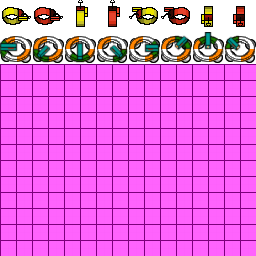
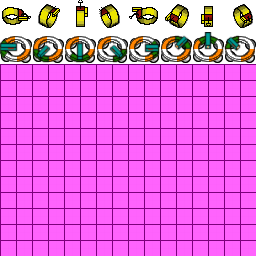
enemy.png auf Richtungen angepasst + Roter Ring wird jetzt durch dynamisches Einfärben erzeugt

diff --git a/src/de/_13ducks/spacebatz/client/graphics/Engine.java b/src/de/_13ducks/spacebatz/client/graphics/Engine.java
@@ -418,6 +418,9 @@ public class Engine {
                 if (enemy.getEnemytypeid() == 2) {
                     tiley = 2;
                 }
+		if (enemy.getEnemytypeid() == 0) {
+		    glColor3f(1f, .5f, .5f);
+		}
                 glBegin(GL_QUADS);
                 glTexCoord2f(0.0625f * tilex, 0.0625f * tiley);
                 glVertex3f((float) c.getX() + panX - 1, (float) c.getY() + panY + 1, 0);
@@ -428,6 +431,7 @@ public class Engine {
                 glTexCoord2f(0.0625f * tilex, 0.0625f * (tiley + 2));
                 glVertex3f((float) c.getX() + panX - 1, (float) c.getY() + panY - 1, 0);
                 glEnd();
+		glColor3f(1f, 1f, 1f);
             }
         }
 
